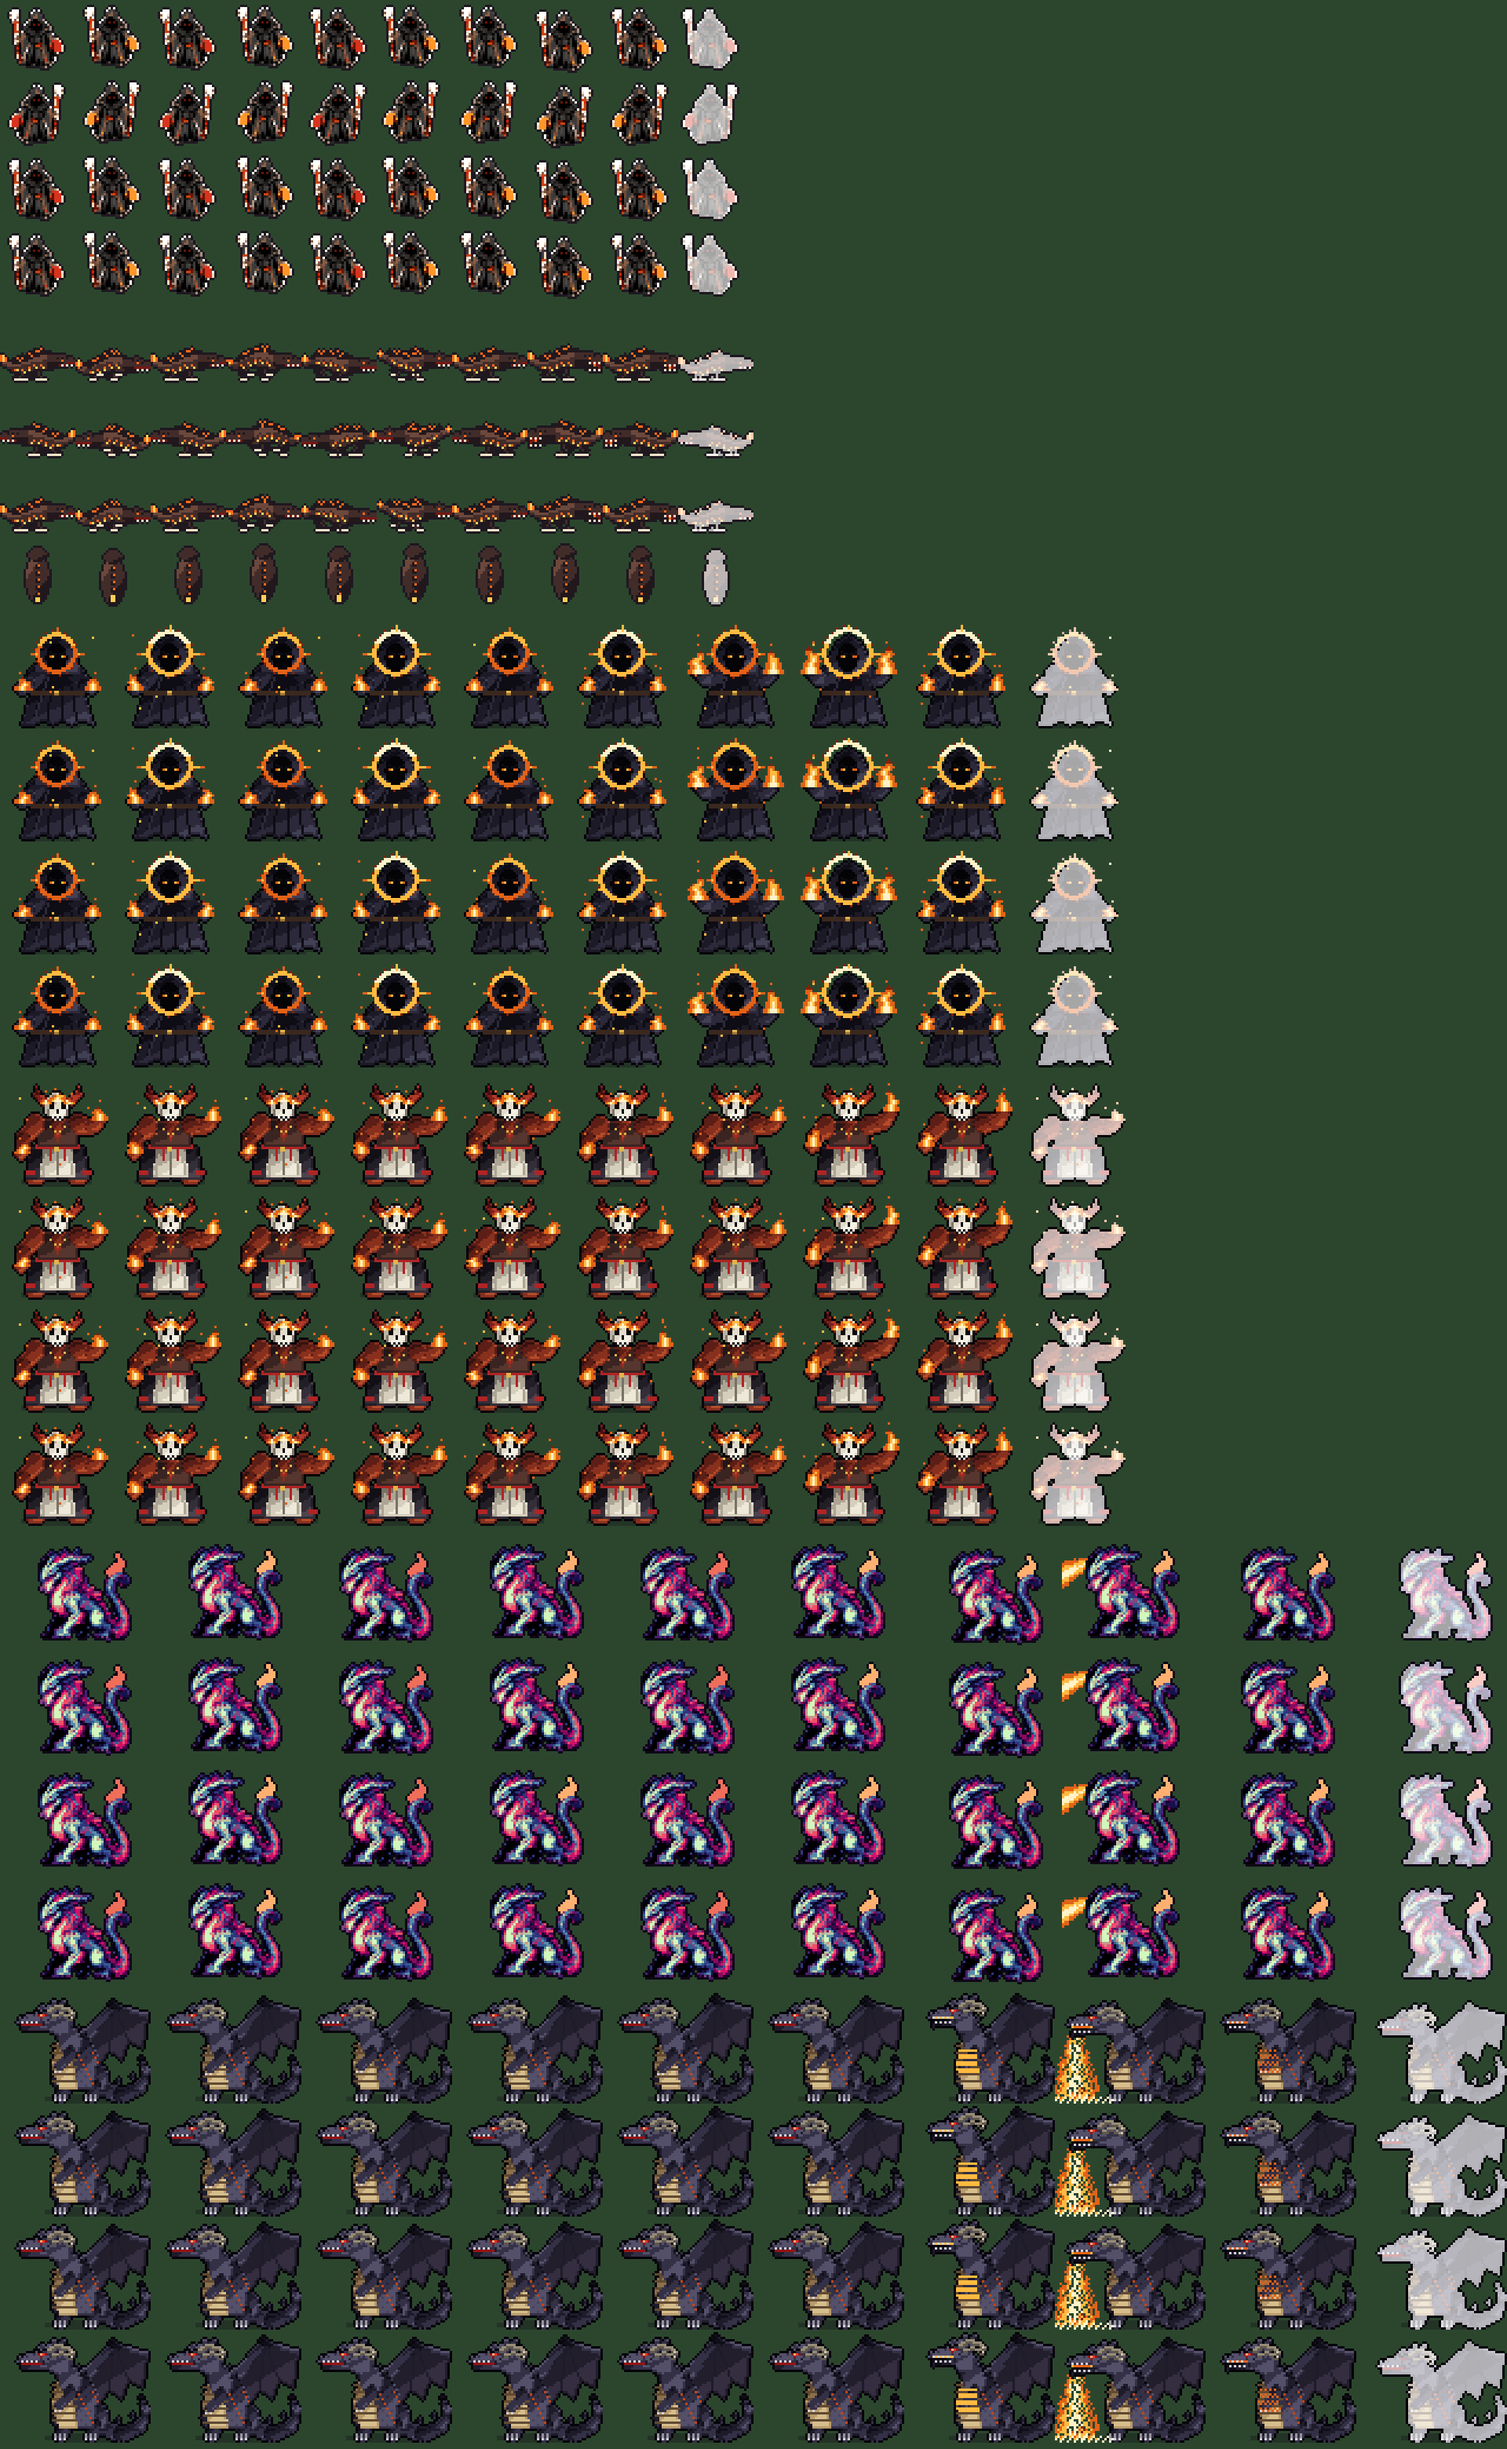
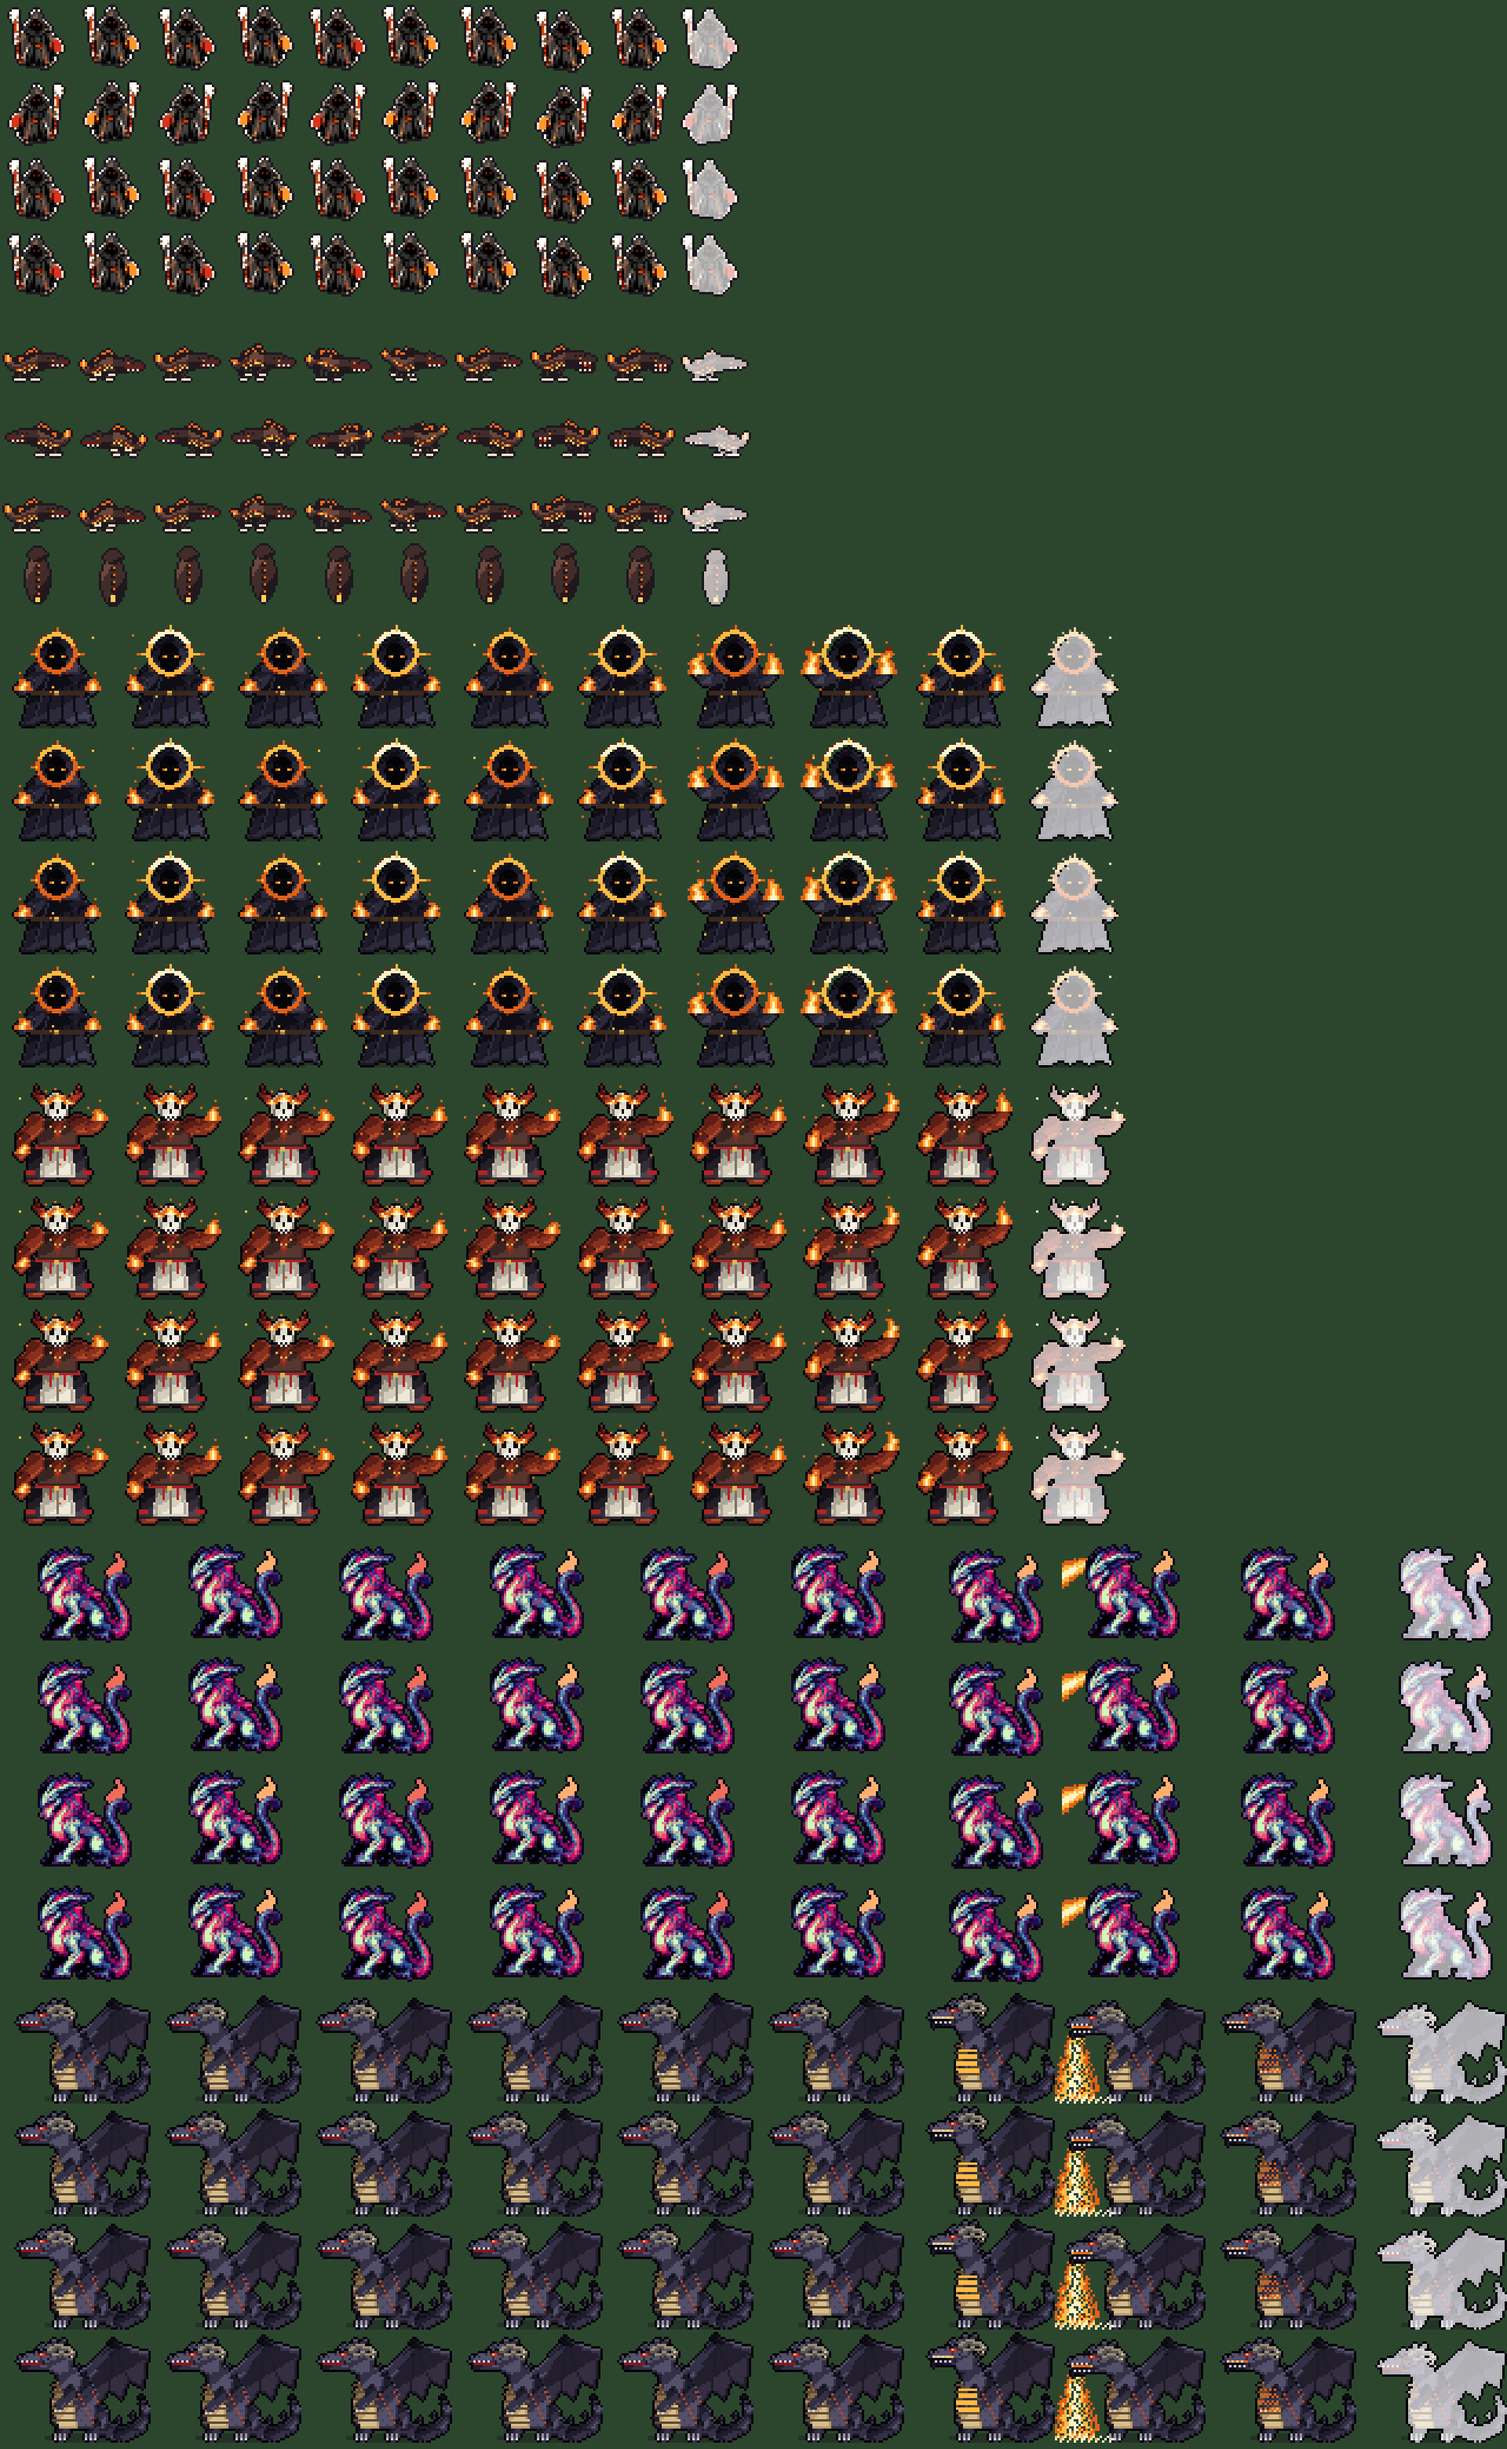
Salamandra sin tocar el borde, con el aviso del generador también para los de Lienzo; reducir con errores claros

Changed region(s): [[0.0, 0.1244, 0.5, 0.2176]]

diff --git a/tools/generadores/monstruos/generar.py b/tools/generadores/monstruos/generar.py
@@ -8,6 +8,7 @@ import json
 import os
 import sys
 
+import numpy as np
 from PIL import Image
 
 HERE = os.path.dirname(os.path.abspath(__file__))
@@ -106,7 +107,7 @@ PROPIOS = {
 
 
 # Monstruos cuyos fotogramas no deben tocar el borde del cuadro (el generador avisa si pasa).
-VIGILADOS = {"jabali", "acolito", "sacerdote", "oni", "dragon_fuego"}
+VIGILADOS = {"jabali", "acolito", "salamandra", "sacerdote", "oni", "dragon_fuego"}
 
 
 def destello(img, contorno):
@@ -146,12 +147,15 @@ def hoja_propia(clave, ancho, alto, modulo):
     return sheet
 
 
-def fotograma(tam, pal, dibujar, extra, direccion, anim, i):
+def fotograma(tam, pal, dibujar, extra, direccion, anim, i, clave=None):
     c = Lienzo(tam, pal)
     dibujar(c, VISTA[direccion], anim, i, **extra)
     c.contorno()
     img = c.imagen(golpe=anim == "golpe")
-    return img.transpose(Image.FLIP_LEFT_RIGHT) if direccion == "left" else img
+    img = img.transpose(Image.FLIP_LEFT_RIGHT) if direccion == "left" else img
+    if clave in VIGILADOS and not reducir.sin_tocar_bordes(np.array(img)):
+        print(f"AVISO: {clave} {direccion} {anim} {i} toca el borde del cuadro")
+    return img
 
 
 def hoja(clave, tam, pal, dibujar, extra):
@@ -165,7 +169,7 @@ def hoja(clave, tam, pal, dibujar, extra):
         for nombre, n, fps, bucle in ANIMS:
             meta["animations"][nombre] = {"startColumn": col, "frames": n, "fps": fps, "loop": bucle}
             for i in range(n):
-                sheet.paste(fotograma(tam, pal, dibujar, extra, d, nombre, i), (col * tam, fila * tam))
+                sheet.paste(fotograma(tam, pal, dibujar, extra, d, nombre, i, clave), (col * tam, fila * tam))
                 col += 1
     sheet.save(os.path.join(SALIDA, f"{clave}.png"))
     with open(os.path.join(SALIDA, f"{clave}.json"), "w", encoding="utf-8") as f:

diff --git a/tools/generadores/monstruos/test_reducir.py b/tools/generadores/monstruos/test_reducir.py
@@ -47,12 +47,10 @@ def test_pose_con_fondo_negro_y_paleta_fija():
 def test_limpia_pixeles_sueltos_y_agujeros():
     cuadro = [[(1, 2, 3)] * 6 for _ in range(6)]
     cuadro[2][2] = None  # agujero
-    sal = [[None] * 6 for _ in range(6)]
-    sal[0][0] = (9, 9, 9)  # píxel suelto
     reducir.limpiar(cuadro)
-    assert cuadro[2][2] == (1, 2, 3)
+    assert cuadro[2][2] == (1, 2, 3)  # el agujero se tapa
     unico = [[None] * 3 for _ in range(3)]
-    unico[0][0] = (9, 9, 9)
+    unico[0][0] = (9, 9, 9)  # píxel suelto
     reducir.limpiar(unico)
     assert unico[0][0] is None
 
@@ -83,6 +81,17 @@ def test_sin_tocar_bordes():
     img[7, 3] = (1, 1, 1, 255)
     assert reducir.sin_tocar_bordes(img, permitir_abajo=True)
     assert not reducir.sin_tocar_bordes(img, permitir_abajo=False)
+
+
+def test_imagen_lisa_da_un_error_claro():
+    ruta = os.path.join(tempfile.mkdtemp(), "lisa.png")
+    Image.new("RGB", (10, 10), AZUL).save(ruta)
+    try:
+        reducir.pose(ruta, 5)
+    except AssertionError as e:
+        assert "ninguna figura" in str(e)
+    else:
+        raise AssertionError("debía fallar con una imagen lisa")
 
 
 if __name__ == "__main__":

diff --git a/tools/generadores/monstruos/reducir.py b/tools/generadores/monstruos/reducir.py
@@ -65,10 +65,11 @@ def pose(ruta, ancho, colores=14, fondo="auto", umbral=60, contraste=1.35, retoq
     a = np.array(im).astype(int)
     mask = _mascara(a, fondo, umbral)
     ys, xs = np.where(mask)
+    assert mask.any(), f"{ruta}: no se encontró ninguna figura (¿umbral demasiado alto o imagen lisa?)"
     caja = (xs.min(), ys.min(), xs.max() + 1, ys.max() + 1)
     recorte = im.crop(caja)
     m = Image.fromarray((mask[caja[1]:caja[3], caja[0]:caja[2]] * 255).astype("uint8"))
-    alto = round(recorte.height * ancho / recorte.width)
+    alto = max(1, round(recorte.height * ancho / recorte.width))
     reducida = recorte.resize((ancho, alto), Image.BOX)
     reducida = ImageEnhance.Color(ImageEnhance.Brightness(reducida).enhance(brillo)).enhance(saturacion)
     c = np.array(ImageEnhance.Contrast(reducida).enhance(contraste)).astype(int)

diff --git a/tools/generadores/monstruos/criaturas.py b/tools/generadores/monstruos/criaturas.py
@@ -249,7 +249,7 @@ def salamandra(c, vista, anim, i):
         tramos = []
         for n in range(15):
             t = n / 14
-            x = (3 + t * 18) * k + avance * t
+            x = (5 + t * 12) * k + avance * t
             y = base - 6 * k + alto + math.sin(fase + t * 5) * 1.8 * k * (1 - t * 0.5)
             g = (0.9 + 2.5 * math.sin(min(1.0, t * 1.25) * math.pi / 2)) * k
             tramos.append((x, y, g))
